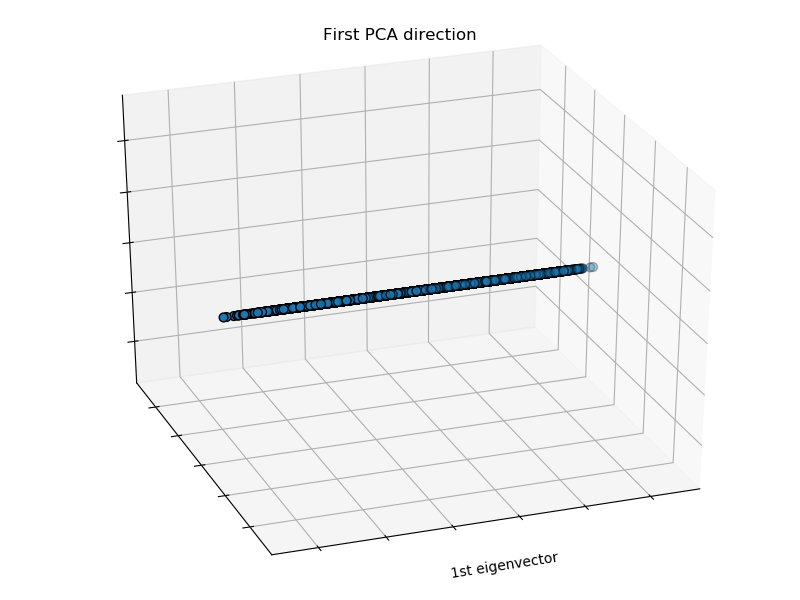
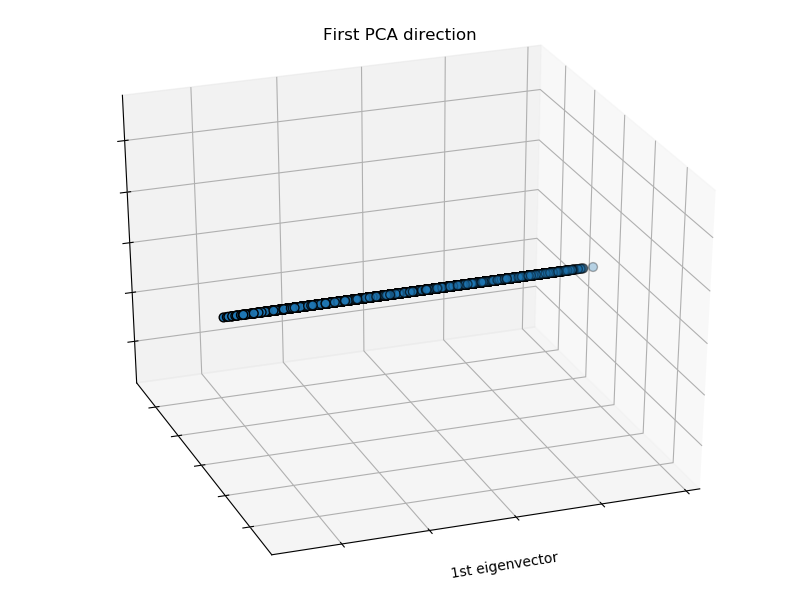
Updates PCA

diff --git a/scripts/pca.py b/scripts/pca.py
@@ -3,7 +3,7 @@ import matplotlib.pyplot as plt
 from mpl_toolkits.mplot3d import Axes3D
 from sklearn.decomposition import PCA
 from sklearn import datasets
-from modules.data import read_data
+from modules.data import read_data, normalizes
 from sklearn.preprocessing import StandardScaler
 
 
@@ -12,7 +12,10 @@ def main():
 
     df = read_data('df_data_pruned')
 
-    df = StandardScaler().fit_transform(df)
+    for i in df:
+        df[i] = (normalizes(df[i]))[0]
+
+    df -= df.mean()
 
     fig = plt.figure(1, figsize=(8, 6))
     ax = Axes3D(fig, elev=-150, azim=110)
@@ -72,7 +75,7 @@ def main():
     num_dim = list(range(1, 10))
 
     for i, j in enumerate(variance):
-        variance[i] = sum(variance[i-1:i+1]) if i > 0 else variance[i]
+        variance[i] = sum(variance[i - 1:i + 1]) if i > 0 else variance[i]
 
     plt.plot(num_dim, variance, 'o')
     plt.title("Variance captured in each dimension")
